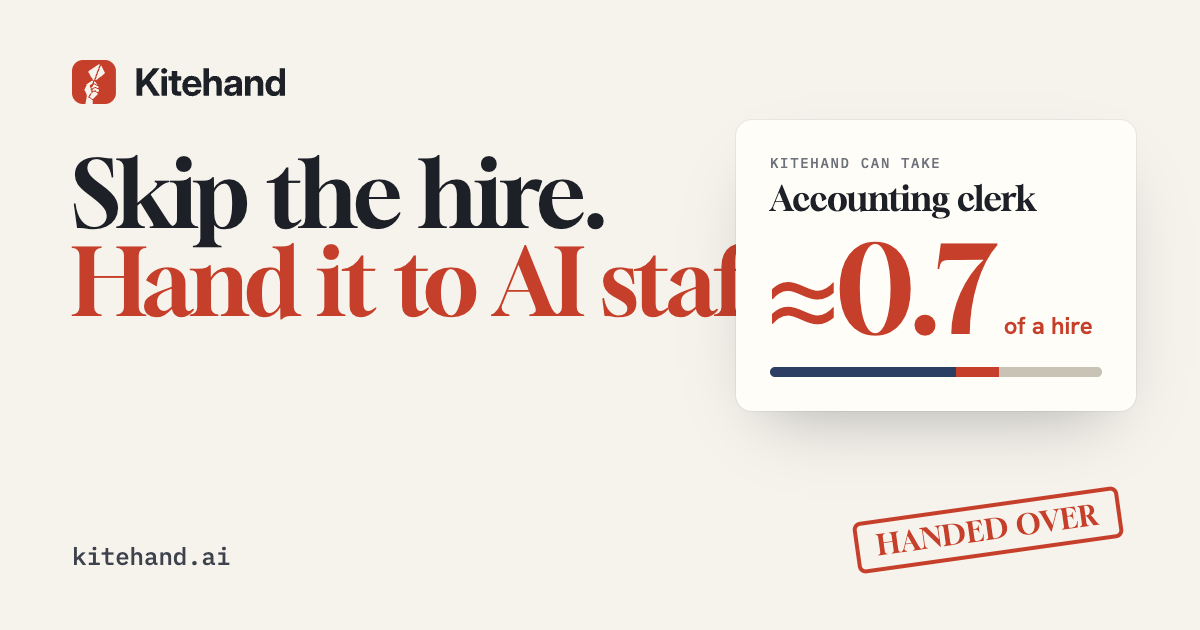
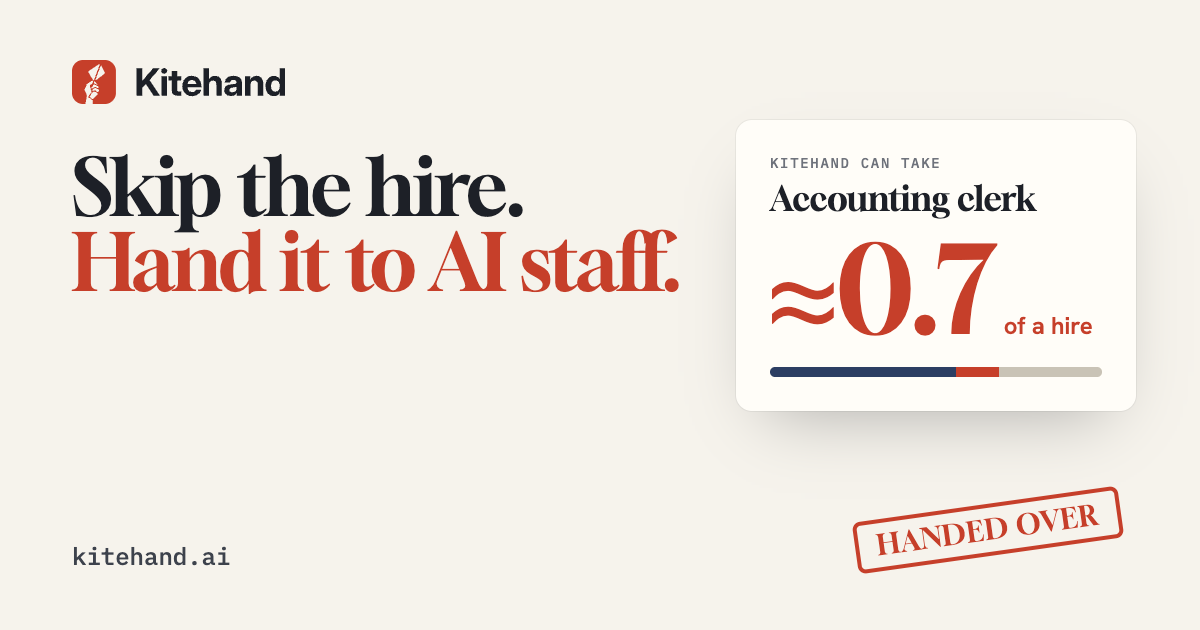
Fit the English sharing image's headline
"Hand it to AI staff." ran under the card at 92 px, so link previews
showed "Hand it to AI staf". At 78 px the line ends before the card.

Changed region(s): [[0.0617, 0.2413, 0.6167, 0.5127]]

diff --git a/scripts/og.html b/scripts/og.html
@@ -7,7 +7,7 @@
   * { box-sizing: border-box; }
   body { margin: 0; width: 1200px; height: 630px; background: #f6f3ec; color: #1d2027; font-family: "Hanken Grotesk", "Zen Kaku Gothic New", sans-serif; overflow: hidden; position: relative; }
   .logo { position: absolute; left: 72px; top: 60px; height: 44px; }
-  h1 { position: absolute; left: 72px; top: 150px; margin: 0; font: 400 92px/0.96 "Gloock", serif; letter-spacing: -0.02em; }
+  h1 { position: absolute; left: 72px; top: 150px; margin: 0; font: 400 78px/0.96 "Gloock", serif; letter-spacing: -0.02em; }
   h1 span { display: block; }
   h1 span + span { color: #c63f2a; }
   body.ja h1 { font: 800 74px/1.18 "Shippori Mincho B1", serif; letter-spacing: 0.01em; }
